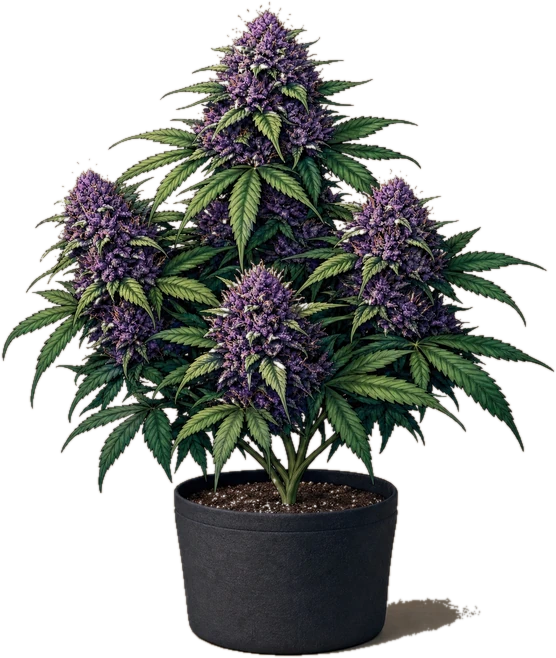
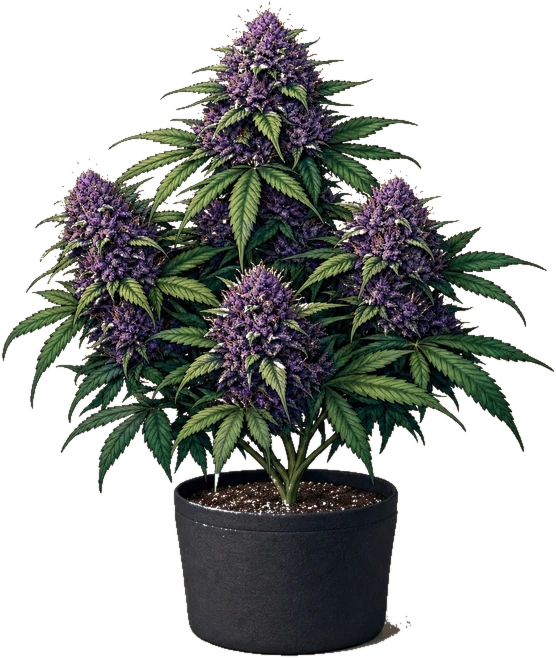
Grow Room: remove plant pot shadows (baked contact shadow + CSS drop-shadow)
Re-cut plant.webp to erase the baked-in contact shadow under/right of the pot,
and drop the CSS drop-shadow filter on the plant images. Clean pots now.

Changed region(s): [[0.6421, 0.9119, 0.8561, 1.0], [0.3363, 0.6991, 0.5198, 0.7903]]

diff --git a/src/screens/TrapHouse.jsx b/src/screens/TrapHouse.jsx
@@ -217,7 +217,7 @@ function GrowRoom({ house, onPlant }) {
         {PLANT_SPOTS.map((s, i) => (
           <img key={i} src="/plant.webp" alt="" aria-hidden
             style={{ position: 'absolute', left: `${s.x}%`, top: `${s.y}%`, width: `${plantW(s.y)}%`,
-              transform: 'translate(-50%, -100%)', filter: 'drop-shadow(0 3px 4px rgba(0,0,0,0.35))', pointerEvents: 'none' }} />
+              transform: 'translate(-50%, -100%)', pointerEvents: 'none' }} />
         ))}
       </div>
 